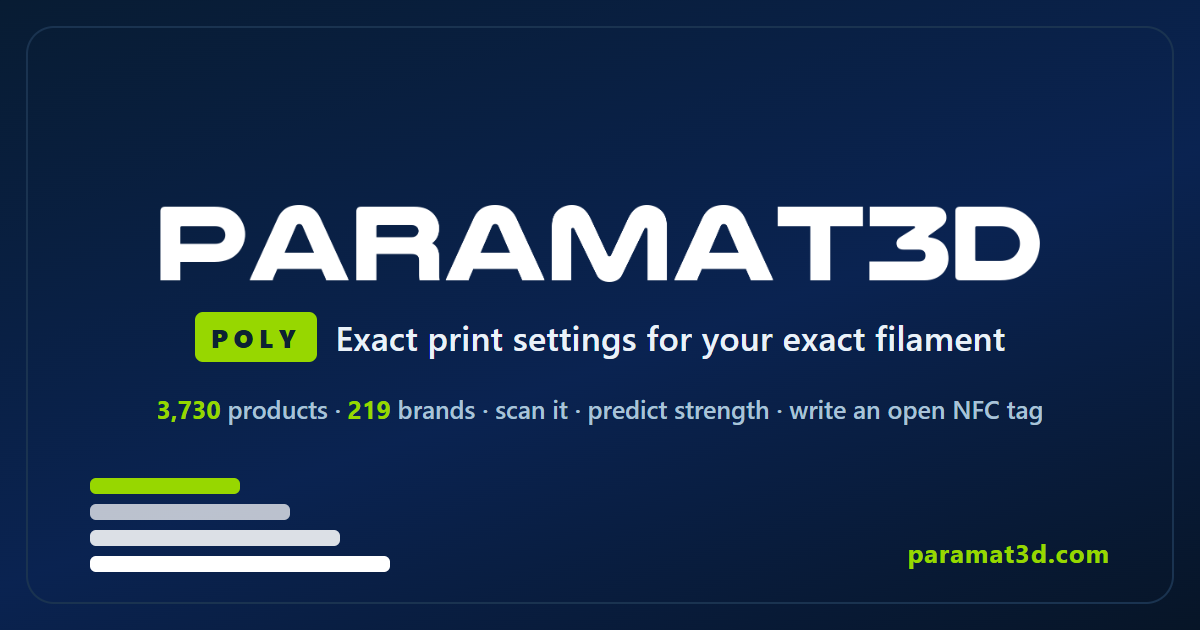
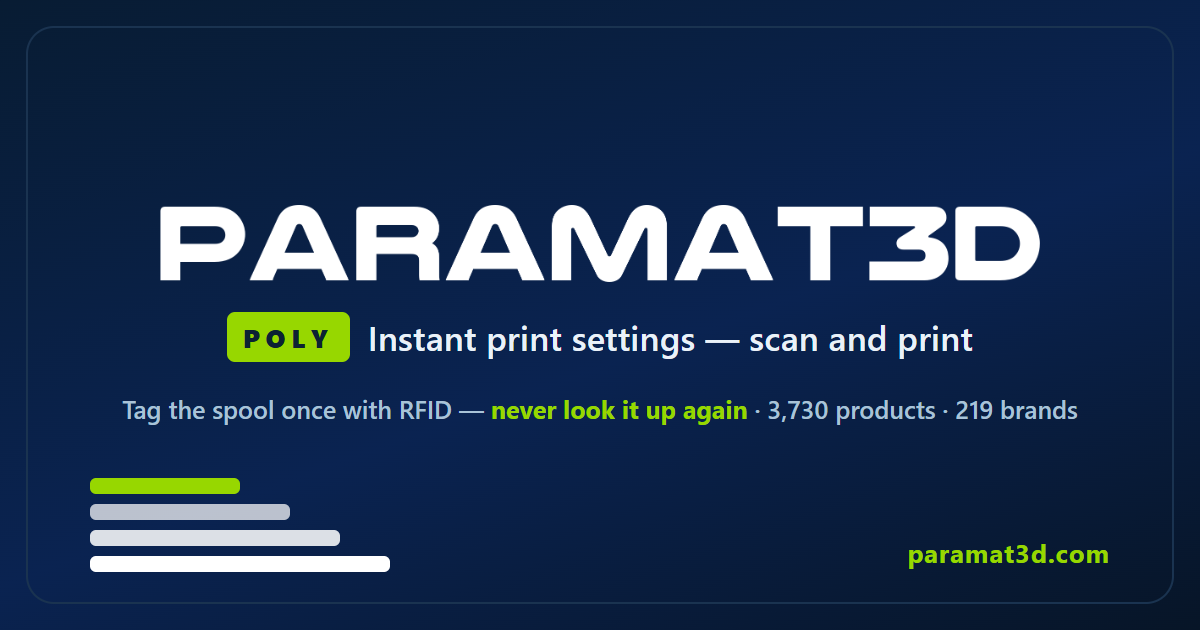
update tool data

Changed region(s): [[0.1542, 0.4825, 0.8325, 0.573], [0.0925, 0.6333, 0.8942, 0.6937]]

diff --git a/index.template.html b/index.template.html
@@ -2,11 +2,11 @@
 <html lang="en">
 <head>
 <meta charset="utf-8">
-<title>PARAMAT3D Poly — exact print settings for your exact filament</title>
+<title>PARAMAT3D Poly — instant print settings for your filament: scan and print</title>
 <meta name="viewport" content="width=device-width, initial-scale=1, viewport-fit=cover">
 <meta name="description" content="Free, open filament database: search or scan 3,700+ filaments, get cross-source consensus print settings (nozzle, bed, flow, drying), and export to your slicer or an NFC spool tag.">
 <link rel="canonical" href="https://paramat3d.com/">
-<meta property="og:title" content="ParaMat — exact print settings for your exact filament">
+<meta property="og:title" content="ParaMat3D — instant print settings: scan and print">
 <meta property="og:description" content="Search or scan 3,700+ filaments. Consensus print settings from open slicer + manufacturer data, exportable to Orca/Bambu or an NFC spool tag.">
 <meta property="og:type" content="website">
 <meta property="og:url" content="https://paramat3d.com/">
@@ -189,8 +189,8 @@
   <div class="wrap">
     <header>
       <div class="eyebrow"><span class="d"></span> Open polymer filament reference</div>
-      <h1 class="brandline"><img class="pm-mark" src="paramat3d-wordmark-white.png" alt="PARAMAT3D"><span class="poly">POLY</span><span class="sr">PARAMAT3D Poly — exact print settings for your exact filament</span></h1>
-      <p class="tagline">Exact print settings for <em>your exact</em> filament.</p>
+      <h1 class="brandline"><img class="pm-mark" src="paramat3d-wordmark-white.png" alt="PARAMAT3D"><span class="poly">POLY</span><span class="sr">PARAMAT3D Poly — instant print settings for your filament: scan and print</span></h1>
+      <p class="tagline">Instant print settings — <em>scan and print</em>. Tag the spool once with RFID, never look it up again.</p>
       <p class="sub">Cross-checked consensus from open slicer + manufacturer data — not one vendor's defaults. Search or scan, tune for strength / finish / speed, export to your slicer or an NFC spool tag.</p>
       <div class="stats" role="group" aria-label="Database size">
         <div class="stat"><b id="st-products">—</b><span>products</span></div>
